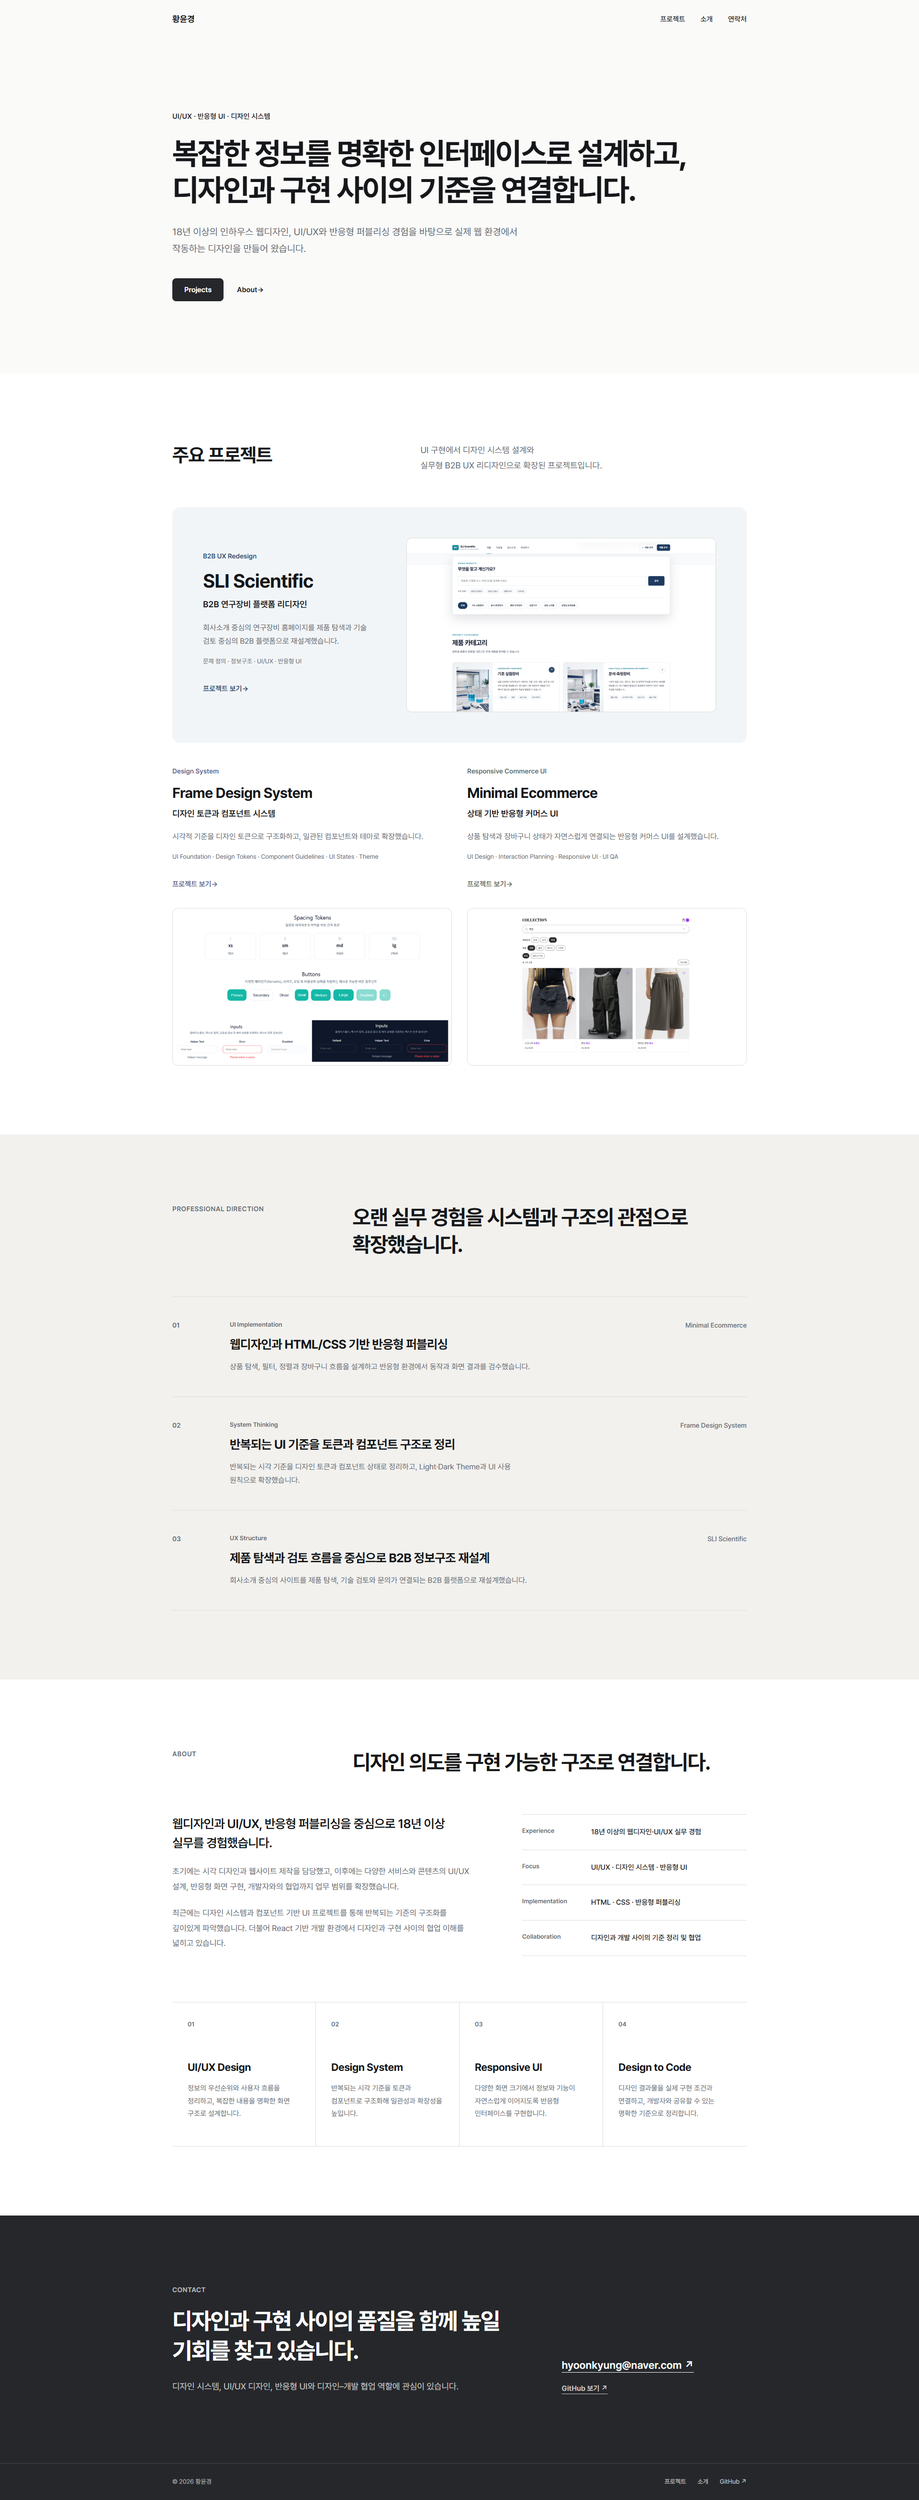
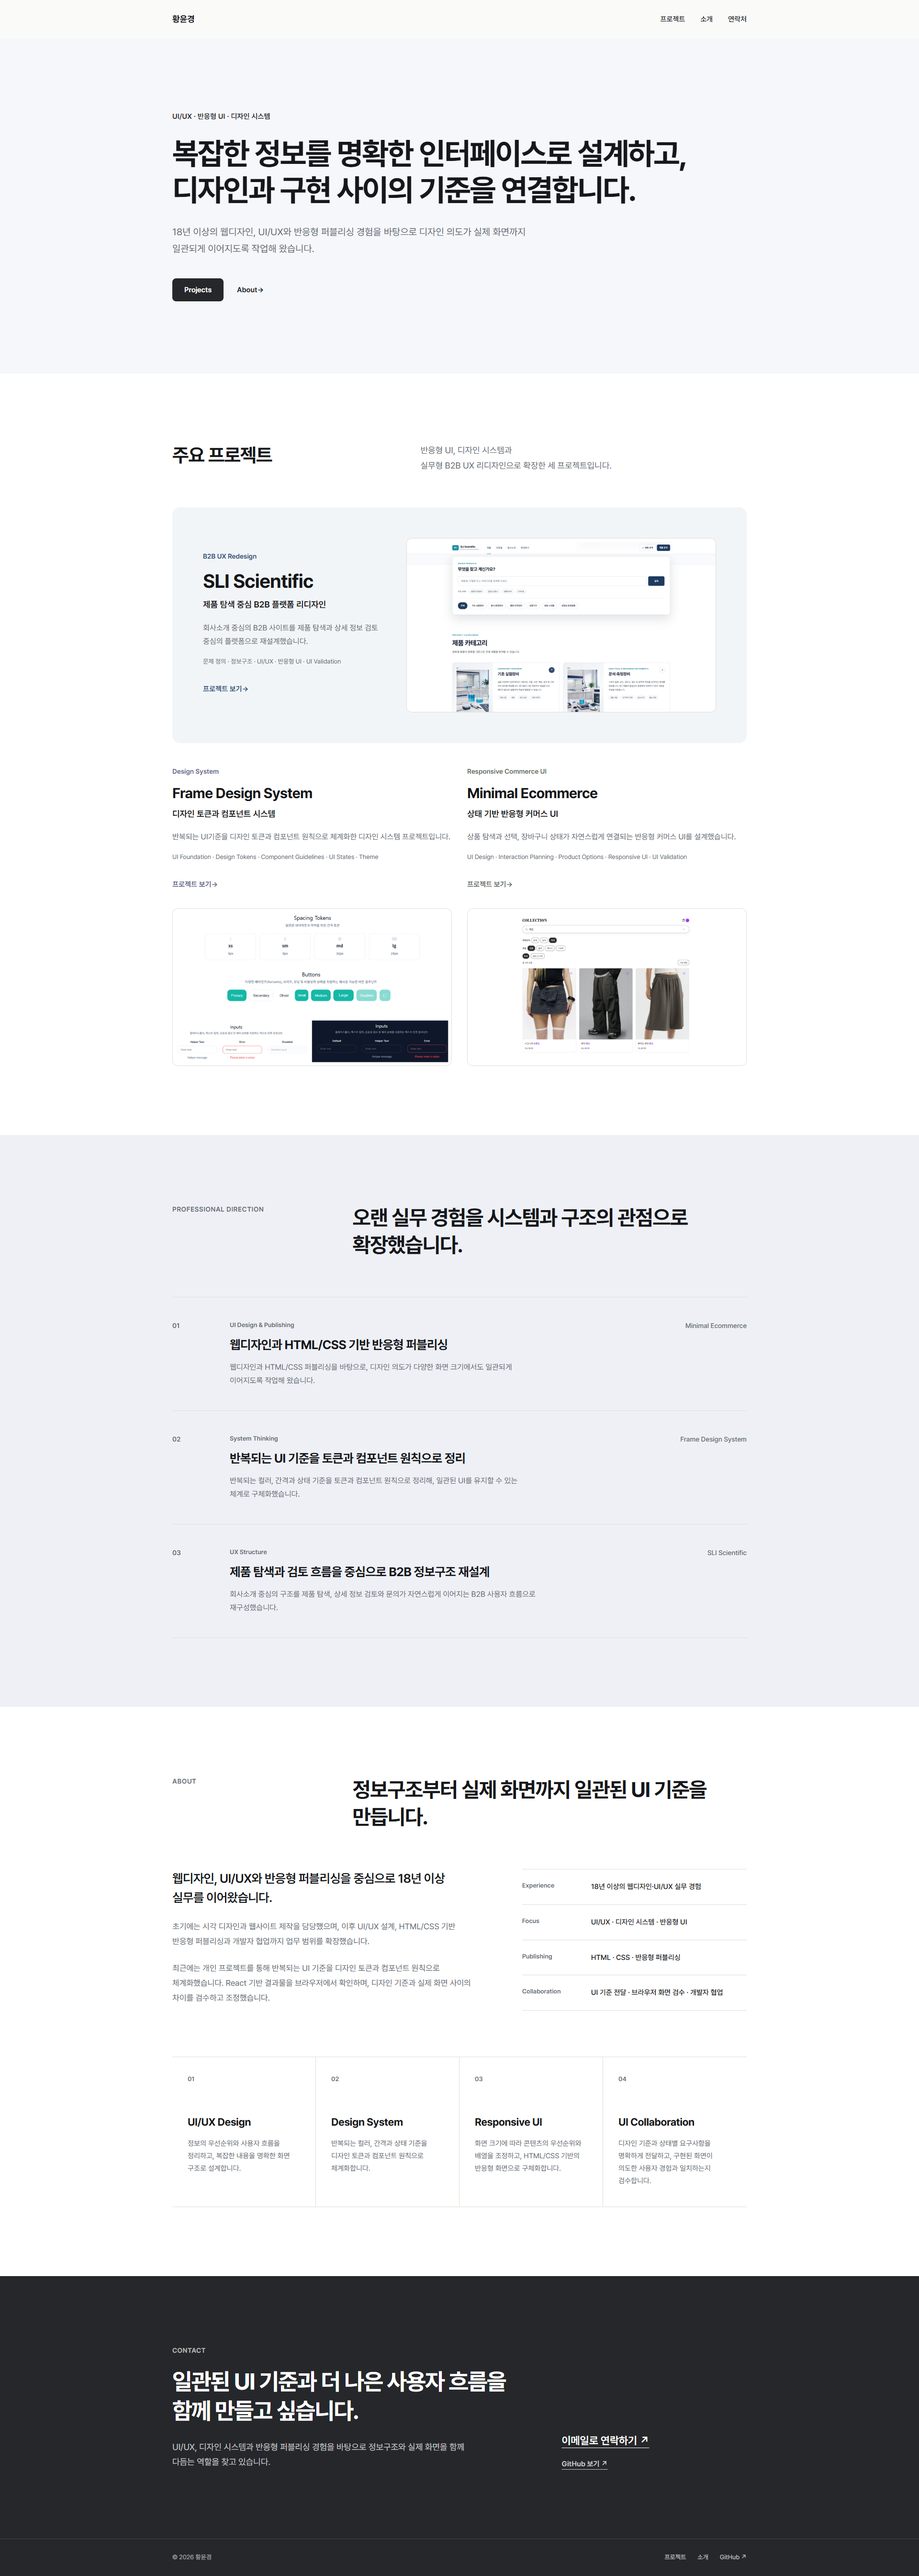
color

diff --git a/src/styles/home.css b/src/styles/home.css
@@ -3,7 +3,7 @@
     display: flex;
     align-items: center;
     padding: 40px 0;
-    background: var(--color-bg);
+    background: var(--color-bg-soft);
   }  
   
   .home-hero__eyebrow {
@@ -267,7 +267,7 @@
 
 .home-growth {
     padding: 144px 0;
-    background: var(--color-surface-subtle);
+    background: var(--color-bg-section);
   }
   
   .home-growth__header {

diff --git a/src/styles/tokens.css b/src/styles/tokens.css
@@ -2,6 +2,9 @@
     --color-bg: #fafaf9;
     --color-surface: #ffffff;
     --color-surface-subtle: #f2f1ee;
+
+    --color-bg-soft: #f6f7fb;
+    --color-bg-section: #eef0f6;
   
     --color-text-primary: #15171a;
     --color-text-secondary: #626870;
